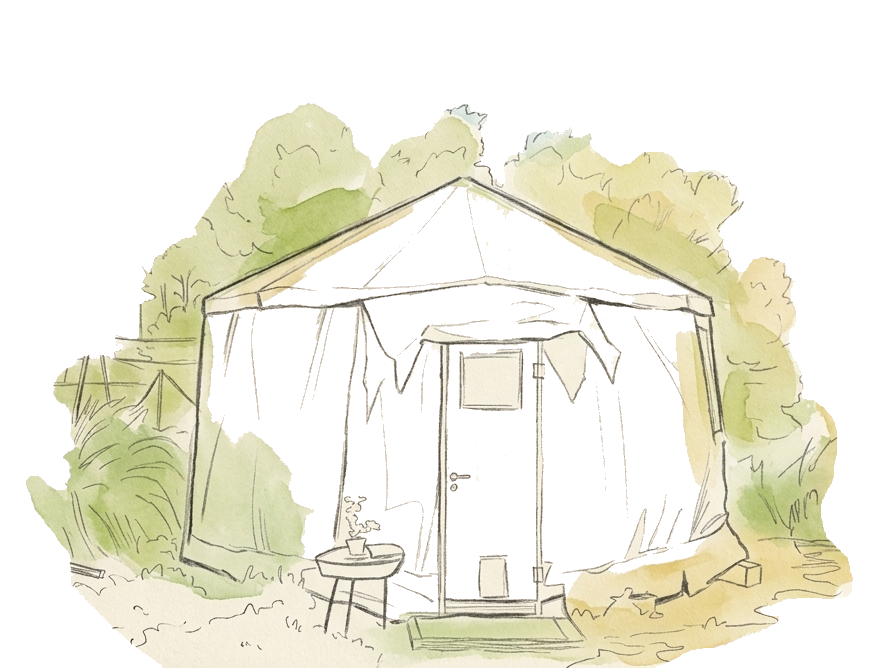
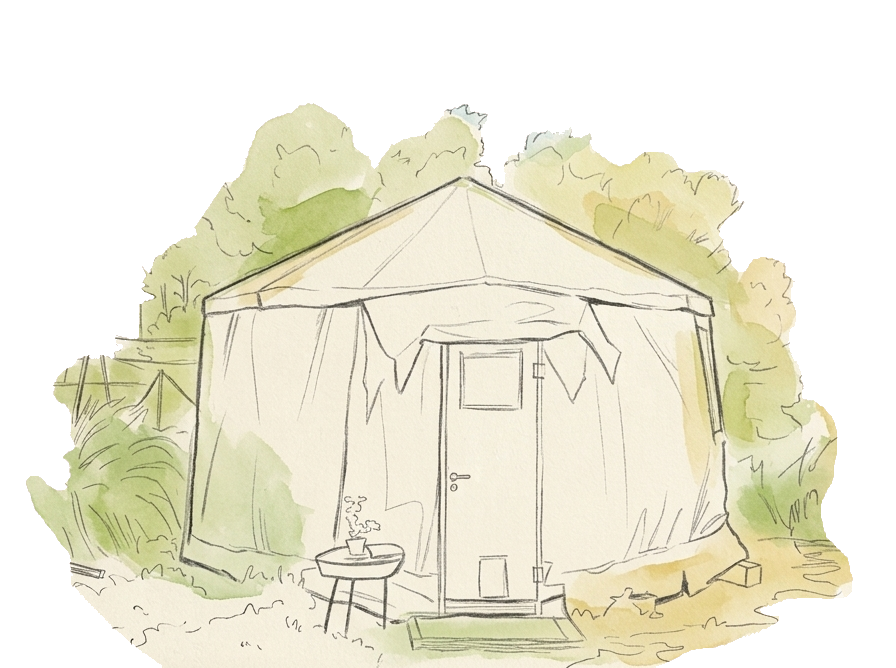
Unite tent + treatments as מרחב הטיפול; her fresh story; רפואה משלימה
- Hero label swapped to "רפואה משלימה"
- Watercolor tent merged INTO treatments under single name "מרחב הטיפול";
  removed "הטיפולים של סלם"; art + caption aligned to start (right) like the rest
- About swapped to Selams fresh Personal text (verbatim), clinic line as pull-quote
- Reiki photo tag -> "טיפול רייקי"; nav label -> "מרחב הטיפול"
- Updated recolored watercolor (per her eye)

Changed region(s): [[0.2188, 0.2695, 0.7812, 0.9281]]

diff --git a/index.html b/index.html
@@ -130,13 +130,10 @@
   .hero-inner .crafts-line{ justify-content:center; }
   .hero-inner .hero-cta{ justify-content:center; }
 
-  /* watercolor tent band — her hand-painted treatment space, full width */
-  .tentband{ position:relative; padding:clamp(2.5rem,6vw,5.5rem) 0; overflow-x:clip; }
-  .tentband::before{ content:""; position:absolute; inset:0; pointer-events:none; background:radial-gradient(60% 92% at 50% 46%, rgba(126,131,88,.16), transparent 70%); }
-  .tentband-inner{ position:relative; width:min(760px,92vw); margin-inline:auto; display:flex; flex-direction:column; align-items:center; text-align:center; gap:1rem; }
-  .tentband .eyebrow{ justify-content:center; }
-  .tentband img{ width:min(560px,84vw); height:auto; filter:drop-shadow(0 22px 44px rgba(46,38,31,.16)); }
-  .tentband-cap{ color:var(--ink-soft); font-size:clamp(1.05rem,2vw,1.25rem); font-weight:300; max-width:32ch; }
+  /* her hand-painted treatment tent, inside מרחב הטיפול — aligned to the start like the rest */
+  .tent-figure{ margin:0 0 clamp(2rem,5vw,3.2rem); }
+  .tent-figure img{ display:block; width:min(560px,90%); height:auto; filter:drop-shadow(0 22px 44px rgba(46,38,31,.16)); }
+  .tent-figure figcaption{ margin-top:1.1rem; color:var(--ink-soft); font-size:clamp(1.05rem,2vw,1.2rem); font-weight:300; max-width:48ch; }
 
   /* ───────────────── SECTION SHELL ───────────────── */
   section{ padding:clamp(4.5rem,9vw,7.5rem) 0; }
@@ -286,7 +283,7 @@
     סלם
   </a>
   <nav>
-    <a href="#treatments">הטיפולים</a>
+    <a href="#treatments">מרחב הטיפול</a>
     <a href="#shop">הסבונים</a>
     <a href="#about">הסיפור</a>
     <a href="#contact" class="nav-cta">צרו קשר</a>
@@ -307,7 +304,7 @@
 
     <div class="hero-inner">
       <div class="hero-copy">
-        <span class="eyebrow reveal">ריפוי טבעי לנשים · בעבודת יד · באהבה</span>
+        <span class="eyebrow reveal">רפואה משלימה</span>
         <h1 class="reveal" data-delay="1">מעשה ידיים,<br><span class="tint">מעשה לב.</span></h1>
         <p class="lead reveal" data-delay="2">סלם — רפלקסולוגיה, ריפוי רייקי וסבון טבעי שנרקח לאט. ריפוי הוליסטי שנבנה דרך הקשבה, פתיחות ורצון אמיתי להרגיש טוב יותר.</p>
         <div class="crafts-line reveal" data-delay="3">
@@ -325,19 +322,10 @@
     </div>
   </section>
 
-  <!-- WATERCOLOR TENT BAND — her treatment space, hand-painted, full width -->
-  <section class="tentband" aria-label="מרחב הטיפול של סלם">
-    <div class="tentband-inner reveal">
-      <span class="eyebrow">מרחב הטיפול</span>
-      <img src="images/main-pic.png" alt="אוהל הטיפולים של סלם בלב הטבע — איור בצבעי מים" loading="lazy" />
-      <p class="tentband-cap">אוהל רך בלב הטבע — מרחב להניח בו את מה שכבד, ולנשום.</p>
-    </div>
-  </section>
-
-  <!-- TREATMENTS -->
+  <!-- TREATMENTS — unified "מרחב הטיפול", including her hand-painted tent -->
   <section id="treatments" class="wrap">
     <div class="sec-head reveal">
-      <span class="eyebrow">הטיפולים של סלם</span>
+      <span class="eyebrow">מרחב הטיפול</span>
       <h2>מגע שמקשיב, ריפוי שמאזן.</h2>
       <p>שתי דרכים עדינות לאותו המקום — להחזיר את הגוף והנפש אל האיזון הטבעי שלהם.</p>
       <span class="women-note">
@@ -346,10 +334,15 @@
       </span>
     </div>
 
+    <figure class="tent-figure reveal">
+      <img src="images/main-pic.png" alt="אוהל הטיפולים של סלם בלב הטבע — איור בצבעי מים" loading="lazy" />
+      <figcaption>אוהל רך בלב הטבע — מרחב להניח בו את מה שכבד, ולנשום.</figcaption>
+    </figure>
+
     <div class="treat">
       <div class="treat-photo reveal">
         <img src="images/reiki.jpeg" alt="סלם מעבירה טיפול רייקי בחלל מרגיע" loading="lazy" />
-        <span class="tag">מרחב הטיפול</span>
+        <span class="tag">טיפול רייקי</span>
       </div>
       <div class="treat-blocks reveal" data-delay="1">
         <article class="tblock">
@@ -515,9 +508,9 @@
       <div class="about-body reveal" data-delay="1">
         <span class="eyebrow">נעים מאוד</span>
         <h2 style="font-weight:900; font-size:clamp(2rem,4.5vw,3.1rem); margin:1rem 0 1.5rem; letter-spacing:-.02em;">הסיפור שלי</h2>
-        <p>נעים מאוד, אני סלם — בעלת תואר ראשון במדעי הרוח, מטפלת ברפלקסולוגיה וברייקי, ורוקחת סבונים טבעיים. אני מאמינה בטיפול הוליסטי המחבר בין גוף לנפש, ומתוך ההבנה שכאב פיזי לעיתים מבקש לספר גם על כאב פנימי שלא קיבל מקום.</p>
-        <div class="pull">בעיניי, ריפוי הוא תהליך עדין שנבנה דרך הקשבה, פתיחות ורצון להרגיש טוב יותר.</div>
-        <p>הרפלקסולוגיה היא כלי טיפולי עמוק עבורי. אני רואה בכפות הרגליים את השורשים שלנו — המקום שמחזיק את כל העומס שאנחנו נושאים. דרך מגע נכון ומדויק אפשר לחוות שחרור, רוגע ותחושת קלילות כבר מהטיפול הראשון.</p>
+        <p>נעים מאוד, אני סלם. מטפלת הוליסטית ברפלקסולוגיה ורייקי, בעלת תואר ראשון במדעי הרוח ורוקחת סבונים טבעיים.</p>
+        <p>הגישה שלי מבוססת על החיבור השלם בין הגוף לנפש. אני מאמינה שהגוף שלנו מדבר איתנו, שכאב פיזי הוא לפעמים שיקוף של כאב רגשי או פנימי שפשוט זקוק למקום.</p>
+        <div class="pull">תהליך הריפוי בקליניקה הוא מרחב בטוח ועדין, שנבנה על הקשבה מלאה, פתיחות ורצון משותף להביא מזור, איזון ותחושה טובה יותר.</div>
         <div class="creds">
           <span class="cred">תואר ראשון במדעי הרוח</span>
           <span class="cred">רפלקסולוגיה</span>